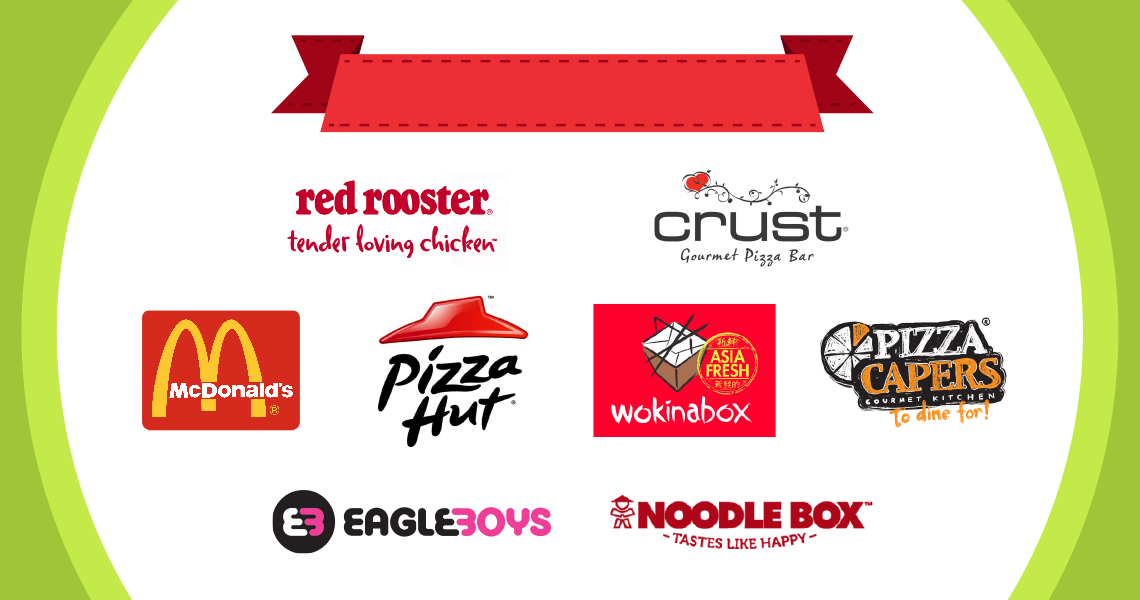
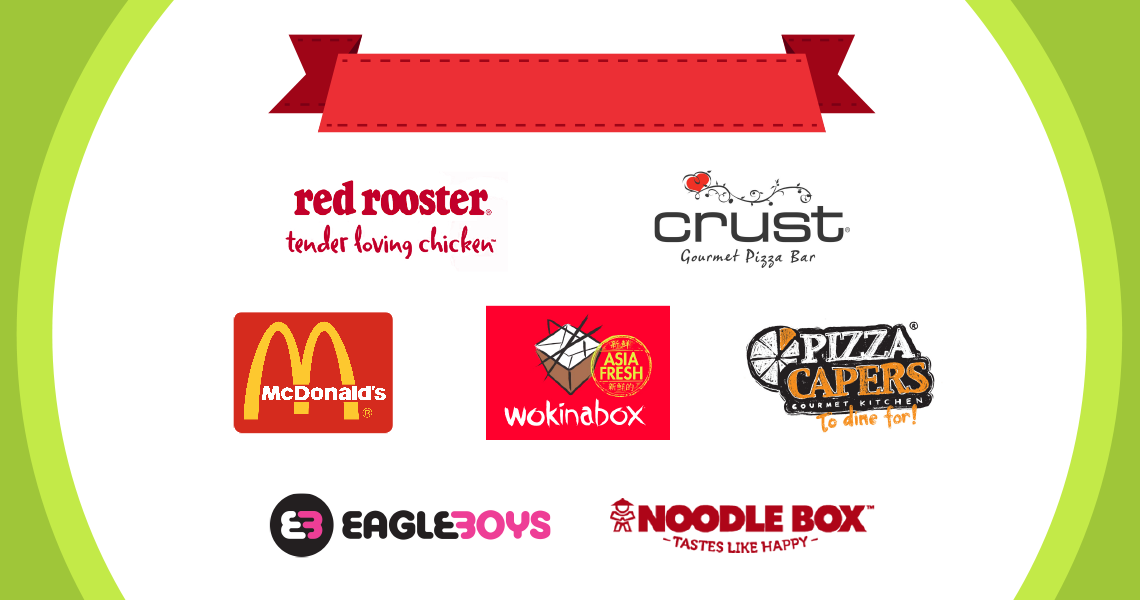
asset link edits and removed pizza hut on 4th slide

diff --git a/public/index.html b/public/index.html
@@ -5,7 +5,7 @@
     <meta http-equiv="X-UA-Compatible" content="IE=edge">
     <!--<meta name="viewport" content="width=device-width, initial-scale=1">-->
     <title>Menu Log</title>
-    <link rel="stylesheet" href="http://eatcdn.s3.amazonaws.com/Salesforce/Images/iPresentation/NZ/main.css" media="screen" charset="utf-8">
+    <link rel="stylesheet" href="https://eatcdn.s3.amazonaws.com/Salesforce/Images/iPresentation/NZ/main.css" media="screen" charset="utf-8">
     <link rel="icon" href="images/favicon.ico" type="image/x-icon">
     <!-- HTML5 shim and Respond.js for IE8 support of HTML5 elements and media queries -->
     <!-- WARNING: Respond.js doesn't work if you view the page via file:// -->
@@ -19,27 +19,27 @@
 
     <div class="slide one">
       <div class="content">
-        <img src="http://eatcdn.s3.amazonaws.com/Salesforce/Images/iPresentation/NZ/menulog-big.png" />
+        <img src="https://eatcdn.s3.amazonaws.com/Salesforce/Images/iPresentation/NZ/menulog-big.png" />
         <h1>iPresentation</h1>
         <p class="paragraph-for">for</p>
         <h2>TR Name</h2>
       </div>
-      <img src="http://eatcdn.s3.amazonaws.com/Salesforce/Images/iPresentation/NZ/1.png" class="img-background" />
+      <img src="https://eatcdn.s3.amazonaws.com/Salesforce/Images/iPresentation/NZ/1.png" class="img-background" />
     </div>
 
     <div class="slide two">
       <div class="content">
         <h1>History of</h1>
-        <img src="http://eatcdn.s3.amazonaws.com/Salesforce/Images/iPresentation/NZ/menulog.png" class="menulog" />
-        <img src="http://eatcdn.s3.amazonaws.com/Salesforce/Images/iPresentation/NZ/justeat.png" class="justeat" />
+        <img src="https://eatcdn.s3.amazonaws.com/Salesforce/Images/iPresentation/NZ/menulog.png" class="menulog" />
+        <img src="https://eatcdn.s3.amazonaws.com/Salesforce/Images/iPresentation/NZ/justeat.png" class="justeat" />
       </div>
-      <img src="http://eatcdn.s3.amazonaws.com/Salesforce/Images/iPresentation/NZ/2.png" class="img-background" />
+      <img src="https://eatcdn.s3.amazonaws.com/Salesforce/Images/iPresentation/NZ/2.png" class="img-background" />
     </div>
 
     <div class="slide three">
       <div class="content">
-        <img src="http://eatcdn.s3.amazonaws.com/Salesforce/Images/iPresentation/NZ/menulog.png" class="menulog" />
-        <img src="http://eatcdn.s3.amazonaws.com/Salesforce/Images/iPresentation/NZ/justeat.png" class="justeat" />
+        <img src="https://eatcdn.s3.amazonaws.com/Salesforce/Images/iPresentation/NZ/menulog.png" class="menulog" />
+        <img src="https://eatcdn.s3.amazonaws.com/Salesforce/Images/iPresentation/NZ/justeat.png" class="justeat" />
         <p class="one">The Menulog Group is Australia's leading online takeaway aggregator</p>
         <p class="two">We have around 2 million customers visit our websites per month around Australia</p>
         <p class="three">They have over 11 million active users worldwide and partner with over 60,000 restaurants and takeaways</p>
@@ -47,49 +47,49 @@
         <p class="five">There are 1,500 orders placed every minute</p>
         <p class="six">JUST EAT is the world's largest online ordering aggregator</p>
       </div>
-      <img src="http://eatcdn.s3.amazonaws.com/Salesforce/Images/iPresentation/NZ/3.png" class="img-background" />
+      <img src="https://eatcdn.s3.amazonaws.com/Salesforce/Images/iPresentation/NZ/3.png" class="img-background" />
     </div>
 
     <div class="slide four">
       <div class="content">
         <h1>Partners we work with</h1>
       </div>
-      <img src="http://eatcdn.s3.amazonaws.com/Salesforce/Images/iPresentation/NZ/4.png" class="img-background" />
+      <img src="https://eatcdn.s3.amazonaws.com/Salesforce/Images/iPresentation/NZ/4.png" class="img-background" />
     </div>
 
     <div class="slide five">
       <div class="content">
-        <img src="http://eatcdn.s3.amazonaws.com/Salesforce/Images/iPresentation/NZ/menulog.png" class="menulog" />
+        <img src="https://eatcdn.s3.amazonaws.com/Salesforce/Images/iPresentation/NZ/menulog.png" class="menulog" />
         <h1>menulog.co.nz</h1>
       </div>
-      <img src="http://eatcdn.s3.amazonaws.com/Salesforce/Images/iPresentation/NZ/5.png" class="img-background" />
+      <img src="https://eatcdn.s3.amazonaws.com/Salesforce/Images/iPresentation/NZ/5.png" class="img-background" />
     </div>
 
     <div class="slide six">
       <div class="content">
-        <img src="http://eatcdn.s3.amazonaws.com/Salesforce/Images/iPresentation/NZ/menulog.png" class="menulog" />
+        <img src="https://eatcdn.s3.amazonaws.com/Salesforce/Images/iPresentation/NZ/menulog.png" class="menulog" />
         <h1>How it works</h1>
         <h2>for you</h2>
       </div>
-      <img src="http://eatcdn.s3.amazonaws.com/Salesforce/Images/iPresentation/NZ/6.png" class="img-background" />
+      <img src="https://eatcdn.s3.amazonaws.com/Salesforce/Images/iPresentation/NZ/6.png" class="img-background" />
     </div>
 
     <div class="slide seven">
       <div class="content">
         <h1>OutDoor</h1>
       </div>
-      <img src="http://eatcdn.s3.amazonaws.com/Salesforce/Images/iPresentation/NZ/7.png" class="img-background" />
+      <img src="https://eatcdn.s3.amazonaws.com/Salesforce/Images/iPresentation/NZ/7.png" class="img-background" />
     </div>
 
     <div class="slide eight">
       <div class="content">
         <h1>TV Commercials</h1>
         <h2>Menulog TVC</h2>
-        <span class="one"><strong>2014</strong><br>May 11th</span>
+        <span class="one"><strong>2014</strong><br></br>May 11th</span>
         <span class="two">June 24th</span>
         <span class="three">June 24th</span>
         <span class="four">June 24th</span>
-        <span class="five"><strong>2015</strong><br>May 11th</span>
+        <span class="five"><strong>2015</strong><br></br>>May 11th</span>
         <span class="six">July 15th</span>
         <div class="seven">
           <h3>Last Supper</h3>
@@ -109,14 +109,14 @@
         </div>
         <div class="eleven">
           <h3>TVC Retail</h3>
-          <a target=_blank href="https://www.youtube.com/watch?v=ydvYlpPnZjM">https://www.youtube.com/watch?v=ydvYlpPnZjM</a>
+          <a target="_blank" href="https://www.youtube.com/watch?v=ydvYlpPnZjM">https://www.youtube.com/watch?v=ydvYlpPnZjM</a>
         </div>
         <div class="twelve">
           <h3>TVC Retail</h3>
           <a target="_blank" href="https://www.youtube.com/watch?v=HjM6X-yn388">https://www.youtube.com/watch?v=HjM6X-yn388</a>
         </div>
       </div>
-      <img src="http://eatcdn.s3.amazonaws.com/Salesforce/Images/iPresentation/NZ/8.png" class="img-background" />
+      <img src="https://eatcdn.s3.amazonaws.com/Salesforce/Images/iPresentation/NZ/8.png" class="img-background" />
     </div>
 
     <div class="slide nine">
@@ -135,7 +135,7 @@
            <li>164</li>
         </ul>
       </div>
-      <img src="http://eatcdn.s3.amazonaws.com/Salesforce/Images/iPresentation/NZ/9.png" class="img-background" />
+      <img src="https://eatcdn.s3.amazonaws.com/Salesforce/Images/iPresentation/NZ/9.png" class="img-background" />
     </div>
 
     <div class="slide ten">
@@ -152,15 +152,15 @@
           <li>2015</li>
         </ul>
       </div>
-      <img src="http://eatcdn.s3.amazonaws.com/Salesforce/Images/iPresentation/NZ/10.png" class="img-background" />
+      <img src="https://eatcdn.s3.amazonaws.com/Salesforce/Images/iPresentation/NZ/10.png" class="img-background" />
     </div>
 
     <div class="slide eleven">
       <div class="content">
-        <img src="http://eatcdn.s3.amazonaws.com/Salesforce/Images/iPresentation/NZ/menulog.png" class="menulog" />
+        <img src="https://eatcdn.s3.amazonaws.com/Salesforce/Images/iPresentation/NZ/menulog.png" class="menulog" />
         <h1>Regional Stats</h1>
       </div>
-      <img src="http://eatcdn.s3.amazonaws.com/Salesforce/Images/iPresentation/NZ/11.png" class="img-background" />
+      <img src="https://eatcdn.s3.amazonaws.com/Salesforce/Images/iPresentation/NZ/11.png" class="img-background" />
     </div>
 
     <div class="slide twelve">
@@ -172,11 +172,11 @@
         <p class="four">France $400</p>
         <p class="five">Australia and New Zealand...</p>
       </div>
-      <img src="http://eatcdn.s3.amazonaws.com/Salesforce/Images/iPresentation/NZ/12.png" class="img-background" />
+      <img src="https://eatcdn.s3.amazonaws.com/Salesforce/Images/iPresentation/NZ/12.png" class="img-background" />
     </div>
 
     <div class="slide thriteen">
-      <img src="http://eatcdn.s3.amazonaws.com/Salesforce/Images/iPresentation/NZ/13.png" class="img-background" />
+      <img src="https://eatcdn.s3.amazonaws.com/Salesforce/Images/iPresentation/NZ/13.png" class="img-background" />
     </div>
 
     <div class="slide fourteen">
@@ -184,7 +184,7 @@
         <h1>Pay As You Go</h1>
         <p><strong>12%</strong>Plus GST</p>
       </div>
-      <img src="http://eatcdn.s3.amazonaws.com/Salesforce/Images/iPresentation/NZ/14.png" class="img-background" />
+      <img src="https://eatcdn.s3.amazonaws.com/Salesforce/Images/iPresentation/NZ/14.png" class="img-background" />
     </div>
 
     <div class="slide fifteen">
@@ -204,9 +204,9 @@
             <td>$34.48</td>
           </tr>
         </table>
-        <img src="http://eatcdn.s3.amazonaws.com/Salesforce/Images/iPresentation/NZ/menulog.png" alt="Menulog" />
+        <img src="https://eatcdn.s3.amazonaws.com/Salesforce/Images/iPresentation/NZ/menulog.png" alt="Menulog" />
       </div>
-      <img src="http://eatcdn.s3.amazonaws.com/Salesforce/Images/iPresentation/NZ/15.png" class="img-background" />
+      <img src="https://eatcdn.s3.amazonaws.com/Salesforce/Images/iPresentation/NZ/15.png" class="img-background" />
     </div>
 
     <div class="slide sixteen">
@@ -234,9 +234,9 @@
             <td class="blue">$2068.80</td>
           </tr>
         </table>
-        <img src="http://eatcdn.s3.amazonaws.com/Salesforce/Images/iPresentation/NZ/menulog.png" alt="Menulog" />
+        <img src="https://eatcdn.s3.amazonaws.com/Salesforce/Images/iPresentation/NZ/menulog.png" alt="Menulog" />
       </div>
-      <img src="http://eatcdn.s3.amazonaws.com/Salesforce/Images/iPresentation/NZ/16.png" class="img-background" />
+      <img src="https://eatcdn.s3.amazonaws.com/Salesforce/Images/iPresentation/NZ/16.png" class="img-background" />
     </div>
 
     <div class="slide seventeen">
@@ -280,9 +280,9 @@
             <td class="blue">$22.48</td>
           </tr>
         </table>
-        <img src="http://eatcdn.s3.amazonaws.com/Salesforce/Images/iPresentation/NZ/menulog.png" alt="Menulog" />
+        <img src="https://eatcdn.s3.amazonaws.com/Salesforce/Images/iPresentation/NZ/menulog.png" alt="Menulog" />
       </div>
-      <img src="http://eatcdn.s3.amazonaws.com/Salesforce/Images/iPresentation/NZ/17.png" class="img-background" />
+      <img src="https://eatcdn.s3.amazonaws.com/Salesforce/Images/iPresentation/NZ/17.png" class="img-background" />
     </div>
 
     <div class="slide eighteen">
@@ -313,7 +313,7 @@
           Delivery company bill the restaurant direct
         </p>
       </div>
-      <img src="http://eatcdn.s3.amazonaws.com/Salesforce/Images/iPresentation/NZ/18.png" class="img-background" />
+      <img src="https://eatcdn.s3.amazonaws.com/Salesforce/Images/iPresentation/NZ/18.png" class="img-background" />
     </div>
 
     <div class="slide nineteen">
@@ -346,52 +346,52 @@
             <td class="blue">$40.20</td>
           </tr>
         </table>
-        <img src="http://eatcdn.s3.amazonaws.com/Salesforce/Images/iPresentation/NZ/menulog.png" alt="Menulog" />
+        <img src="https://eatcdn.s3.amazonaws.com/Salesforce/Images/iPresentation/NZ/menulog.png" alt="Menulog" />
       </div>
-      <img src="http://eatcdn.s3.amazonaws.com/Salesforce/Images/iPresentation/NZ/19.png" class="img-background" />
+      <img src="https://eatcdn.s3.amazonaws.com/Salesforce/Images/iPresentation/NZ/19.png" class="img-background" />
     </div>
 
     <div class="slide twenty">
       <div class="content">
-        <img src="http://eatcdn.s3.amazonaws.com/Salesforce/Images/iPresentation/NZ/menulog.png" alt="Menulog" />
+        <img src="https://eatcdn.s3.amazonaws.com/Salesforce/Images/iPresentation/NZ/menulog.png" alt="Menulog" />
         <h1>Extra's</h1>
       </div>
-      <img src="http://eatcdn.s3.amazonaws.com/Salesforce/Images/iPresentation/NZ/20.png" class="img-background" />
+      <img src="https://eatcdn.s3.amazonaws.com/Salesforce/Images/iPresentation/NZ/20.png" class="img-background" />
     </div>
 
     <div class="slide twentyone">
       <div class="content">
         <h1>Specials</h1>
       </div>
-      <img src="http://eatcdn.s3.amazonaws.com/Salesforce/Images/iPresentation/NZ/21.png" class="img-background" />
+      <img src="https://eatcdn.s3.amazonaws.com/Salesforce/Images/iPresentation/NZ/21.png" class="img-background" />
     </div>
 
     <div class="slide twentytwo">
       <div class="content">
         <h1>Free Website</h1>
       </div>
-      <img src="http://eatcdn.s3.amazonaws.com/Salesforce/Images/iPresentation/NZ/22.png" class="img-background" />
+      <img src="https://eatcdn.s3.amazonaws.com/Salesforce/Images/iPresentation/NZ/22.png" class="img-background" />
     </div>
 
     <div class="slide twentythree">
       <div class="content">
         <h1>Direct Links</h1>
       </div>
-      <img src="http://eatcdn.s3.amazonaws.com/Salesforce/Images/iPresentation/NZ/23.png" class="img-background" />
+      <img src="https://eatcdn.s3.amazonaws.com/Salesforce/Images/iPresentation/NZ/23.png" class="img-background" />
     </div>
 
     <div class="slide twentyfour">
       <div class="content">
         <h1>Menu Printing</h1>
       </div>
-      <img src="http://eatcdn.s3.amazonaws.com/Salesforce/Images/iPresentation/NZ/24.png" class="img-background" />
+      <img src="https://eatcdn.s3.amazonaws.com/Salesforce/Images/iPresentation/NZ/24.png" class="img-background" />
     </div>
 
     <div class="slide twentyfive">
       <div class="content">
-        <img style="left:260px;top:170px;" src="http://eatcdn.s3.amazonaws.com/Salesforce/Images/iPresentation/NZ/menulog-big.png" alt="Menulog" />
+        <img style="left:260px;top:170px;" src="https://eatcdn.s3.amazonaws.com/Salesforce/Images/iPresentation/NZ/menulog-big.png" alt="Menulog" />
       </div>
-      <img src="http://eatcdn.s3.amazonaws.com/Salesforce/Images/iPresentation/NZ/25.png" class="img-background" />
+      <img src="https://eatcdn.s3.amazonaws.com/Salesforce/Images/iPresentation/NZ/25.png" class="img-background" />
     </div>
 
   </div>
